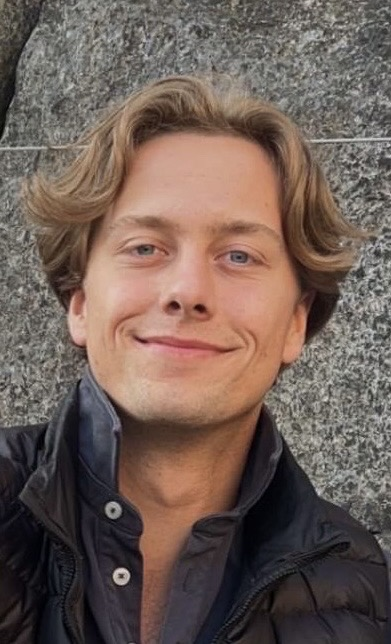
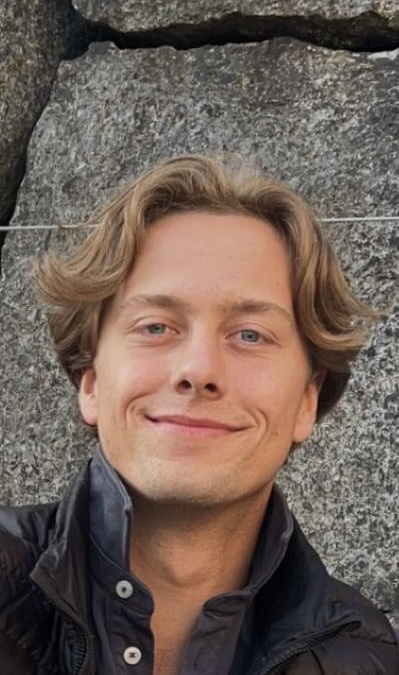
Nytt bilde og Linkedin Link

diff --git a/src/pages/OmOss.jsx b/src/pages/OmOss.jsx
@@ -16,7 +16,7 @@ const OmOss = () => {
       age: 22,
       background: "Erfaring med React, JavaScript, og frontend utvikling. Har jobbet med flere web-prosjekter og har solid bakgrunn innen moderne frontend-teknologier.",
       image: "/ole.png", // Du må legge til dette bildet
-      linkedin: "https://linkedin.com/in/olebjorkolsen",
+      linkedin: "https://www.linkedin.com/in/ole-bj%C3%B8rk-olsen-10a034365/",
       github: "https://github.com/oleols1"
     },
     {
